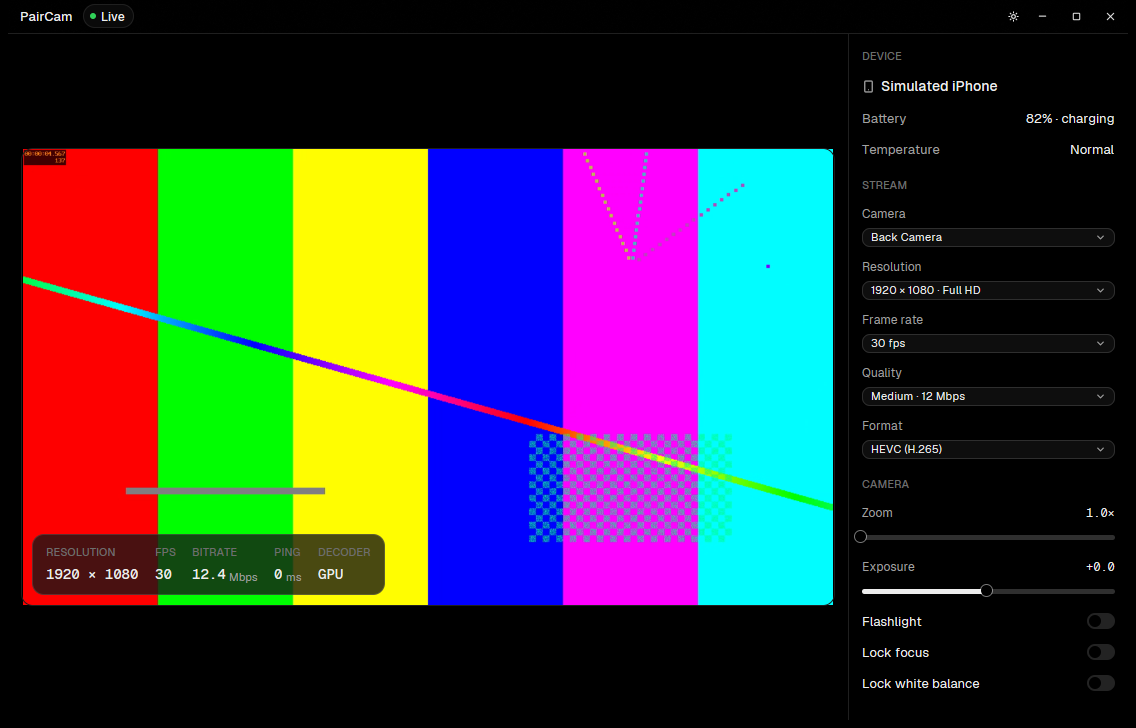
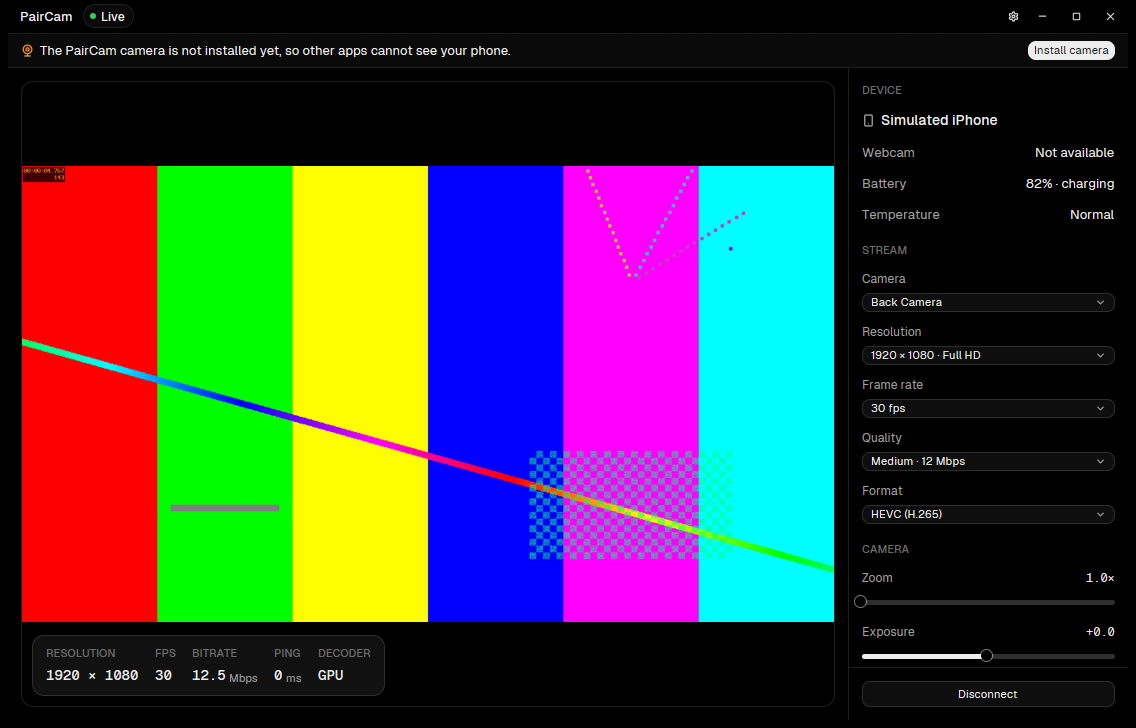
Feed the virtual camera from the desktop app and offer to install it
The app starts the camera feed, sends every decoded picture to it and
registers the "PairCam" camera with Windows while it runs. When the
camera component is not installed, a bar under the title bar says so and
offers "Install camera", which runs the install script and asks Windows
for administrator rights once. The inspector shows whether the webcam is
ready or in use by another app.

diff --git a/apps/desktop/src/app.rs b/apps/desktop/src/app.rs
@@ -20,6 +20,7 @@ use gpui_kit::{
 };
 use image::{Frame, RgbaImage};
 use paircam_engine::protocol::{Capabilities, ControlValues, DEFAULT_PORT, Stats, Thermal};
+use paircam_engine::vcam::VirtualCamera;
 use paircam_engine::{
     Channels, DiscoveredCamera, Engine, Event, Failure, LinkStats, PairedCamera, Phase,
     PreviewFrame, VideoInfo,
@@ -30,6 +31,7 @@ use paircam_ui::{
 };
 use smallvec::SmallVec;
 
+use crate::camera::{self, CameraStatus};
 use crate::controls::StreamControls;
 use crate::settings::{self, Appearance, Preferences, SettingsView};
 use crate::text;
@@ -43,6 +45,8 @@ pub struct Startup {
     /// Where settings are kept.
     pub data_directory: PathBuf,
     pub preferences: Preferences,
+    /// The feed to the virtual camera, kept alive for the whole run.
+    pub camera: Option<VirtualCamera>,
 }
 
 /// One phone on the connect screen.
@@ -79,6 +83,12 @@ pub struct PairCamApp {
     address: Entity<InputState>,
     data_directory: PathBuf,
     preferences: Preferences,
+    _camera: Option<VirtualCamera>,
+    camera_status: CameraStatus,
+    /// Whether another app is showing the PairCam camera right now.
+    camera_in_use: bool,
+    /// Whether the camera install script is running.
+    installing_camera: bool,
     _subscriptions: Vec<Subscription>,
 }
 
@@ -95,7 +105,28 @@ impl PairCamApp {
             show_settings,
             data_directory,
             preferences,
+            camera,
         } = startup;
+
+        // Hear when another app starts or stops using the PairCam camera.
+        if let Some(camera) = camera.as_ref() {
+            let (sender, in_use) = async_channel::unbounded();
+            camera.set_streaming_listener(move |streaming| {
+                let _ = sender.try_send(streaming);
+            });
+            cx.spawn(async move |this, cx| {
+                while let Ok(streaming) = in_use.recv().await {
+                    let updated = this.update(cx, |this, cx| {
+                        this.camera_in_use = streaming;
+                        cx.notify();
+                    });
+                    if updated.is_err() {
+                        break;
+                    }
+                }
+            })
+            .detach();
+        }
 
         // Follow Windows when it switches between light and dark, if the user asked for that.
         cx.observe_window_appearance(window, |this, window, cx| {
@@ -166,8 +197,81 @@ impl PairCamApp {
             address,
             data_directory,
             preferences,
+            _camera: camera,
+            camera_status: CameraStatus::activate(),
+            camera_in_use: false,
+            installing_camera: false,
             _subscriptions: subscriptions,
         }
+    }
+
+    /// Installs the camera component, which asks Windows for administrator rights once.
+    fn install_camera(&mut self, cx: &mut Context<Self>) {
+        if self.installing_camera {
+            return;
+        }
+        self.installing_camera = true;
+        cx.notify();
+        cx.spawn(async move |this, cx| {
+            let installed = cx.background_spawn(async { camera::install() }).await;
+            let _ = this.update(cx, |this, cx| {
+                this.installing_camera = false;
+                if installed {
+                    this.camera_status = CameraStatus::activate();
+                }
+                cx.notify();
+            });
+        })
+        .detach();
+    }
+
+    /// A bar under the title bar when other apps cannot see the camera yet.
+    fn camera_banner(&self, cx: &mut Context<Self>) -> Option<AnyElement> {
+        let message = match &self.camera_status {
+            CameraStatus::Active { .. } => return None,
+            CameraStatus::NotInstalled => text!("camera.not_installed"),
+            CameraStatus::Unsupported => text!("camera.unsupported"),
+            CameraStatus::Failed(detail) => text!("camera.failed", detail = detail),
+        };
+        let can_install =
+            matches!(self.camera_status, CameraStatus::NotInstalled) && camera::can_install();
+
+        Some(
+            div()
+                .h_flex()
+                .flex_none()
+                .items_center()
+                .justify_between()
+                .gap_4()
+                .px_4()
+                .py_2()
+                .border_b_1()
+                .border_color(cx.theme().border)
+                .bg(color(palette(cx).surface))
+                .child(
+                    div()
+                        .h_flex()
+                        .items_center()
+                        .gap_2()
+                        .child(
+                            Icon::new(IconName::Webcam)
+                                .size_4()
+                                .text_color(color(palette(cx).warning)),
+                        )
+                        .child(div().text_size(px(font::size::BASE)).child(message)),
+                )
+                .when(can_install, |banner| {
+                    banner.child(
+                        Button::new("install-camera")
+                            .primary()
+                            .small()
+                            .loading(self.installing_camera)
+                            .label(text!("camera.install"))
+                            .on_click(cx.listener(|this, _, _, cx| this.install_camera(cx))),
+                    )
+                })
+                .into_any_element(),
+        )
     }
 
     fn handle_event(&mut self, event: Event, window: &mut Window, cx: &mut Context<Self>) {
@@ -823,6 +927,13 @@ impl PairCamApp {
                 SharedString::from(percent)
             }
         });
+        let webcam = if !self.camera_status.is_active() {
+            text!("camera.status_unavailable")
+        } else if self.camera_in_use {
+            text!("camera.status_in_use")
+        } else {
+            text!("camera.status_ready")
+        };
         let temperature = stats.map(|stats| match stats.thermal {
             Thermal::Nominal => text!("thermal.nominal"),
             Thermal::Fair => text!("thermal.fair"),
@@ -862,6 +973,7 @@ impl PairCamApp {
                                     .child(SharedString::from(camera_name.to_owned())),
                             ),
                     )
+                    .child(Self::detail_row(text!("inspector.webcam"), webcam, cx))
                     .when_some(battery, |section, battery| {
                         section.child(Self::detail_row(text!("inspector.battery"), battery, cx))
                     })
@@ -925,6 +1037,7 @@ impl Render for PairCamApp {
             .bg(cx.theme().background)
             .text_color(cx.theme().foreground)
             .child(self.title_bar(cx))
+            .children(self.camera_banner(cx))
             .child(div().flex().flex_1().min_h_0().child(body))
     }
 }

diff --git a/apps/desktop/src/camera.rs b/apps/desktop/src/camera.rs
@@ -1,0 +1,85 @@
+//! The "PairCam" webcam other apps see: whether it is installed, running and in use.
+
+use std::path::PathBuf;
+use std::process::Command;
+
+use paircam_engine::vcam::{self, RegisterError, RegisteredCamera};
+
+/// Where the virtual camera stands.
+pub enum CameraStatus {
+    /// Registered with Windows; apps can pick "PairCam".
+    Active {
+        /// Held only so the camera stays registered; dropping it removes the camera.
+        _registration: RegisteredCamera,
+    },
+    /// The camera component has not been installed on this computer yet.
+    NotInstalled,
+    /// This version of Windows has no virtual cameras (Windows 10 and older).
+    Unsupported,
+    /// Windows refused to start it.
+    Failed(String),
+}
+
+impl CameraStatus {
+    /// Adds the camera to Windows for as long as the returned value lives.
+    pub fn activate() -> Self {
+        if !vcam::is_installed() {
+            return Self::NotInstalled;
+        }
+        match vcam::register_with_windows() {
+            Ok(camera) => Self::Active {
+                _registration: camera,
+            },
+            Err(RegisterError::NotInstalled) => Self::NotInstalled,
+            Err(RegisterError::Unsupported) => Self::Unsupported,
+            Err(error) => {
+                log::error!("cannot start the virtual camera: {error}");
+                Self::Failed(error.to_string())
+            }
+        }
+    }
+
+    pub fn is_active(&self) -> bool {
+        matches!(self, Self::Active { .. })
+    }
+}
+
+/// Finds the install script next to a development build. Packaged builds install the camera
+/// from their installer instead.
+fn install_script() -> Option<PathBuf> {
+    let executable = std::env::current_exe().ok()?;
+    executable
+        .ancestors()
+        .map(|directory| directory.join("scripts").join("register-vcam.ps1"))
+        .find(|script| script.is_file())
+}
+
+pub fn can_install() -> bool {
+    install_script().is_some()
+}
+
+/// Runs the install script and waits for it. Windows asks the user for administrator rights.
+/// Call this off the main thread.
+pub fn install() -> bool {
+    let Some(script) = install_script() else {
+        return false;
+    };
+    let mut command = Command::new("powershell.exe");
+    command
+        .args(["-NoProfile", "-ExecutionPolicy", "Bypass", "-File"])
+        .arg(script)
+        .arg("-NoPause");
+    #[cfg(windows)]
+    {
+        use std::os::windows::process::CommandExt as _;
+        // CREATE_NO_WINDOW: only the elevated step shows a window.
+        command.creation_flags(0x0800_0000);
+    }
+    match command.status() {
+        Ok(status) => status.success() && vcam::is_installed(),
+        Err(error) => {
+            log::error!("cannot run the camera install script: {error}");
+            false
+        }
+    }
+}

diff --git a/apps/desktop/src/main.rs b/apps/desktop/src/main.rs
@@ -7,8 +7,10 @@ use std::path::PathBuf;
 use gpui_kit::component::TitleBar;
 use gpui_kit::{AppContext as _, Bounds, WindowBounds, WindowOptions, px, size};
 use paircam_engine::Engine;
+use paircam_engine::vcam::VirtualCamera;
 
 mod app;
+mod camera;
 mod controls;
 mod gallery;
 mod settings;
@@ -90,6 +92,18 @@ fn main() {
 
     let (engine, channels) = Engine::new(&data_directory, host_name());
 
+    // Every decoded picture also goes to the virtual camera other apps see.
+    let camera = match VirtualCamera::start() {
+        Ok(camera) => {
+            engine.set_frame_sink(Box::new(camera.sink()));
+            Some(camera)
+        }
+        Err(error) => {
+            log::error!("cannot start the virtual camera feed: {error}");
+            None
+        }
+    };
+
     gpui_kit::application()
         .with_assets(gpui_kit::assets::AllAssets)
         .run(move |cx| {
@@ -129,6 +143,7 @@ fn main() {
                         show_settings: options.settings,
                         data_directory,
                         preferences,
+                        camera,
                     };
                     app::PairCamApp::new(engine, channels, startup, window, cx)
                 })
